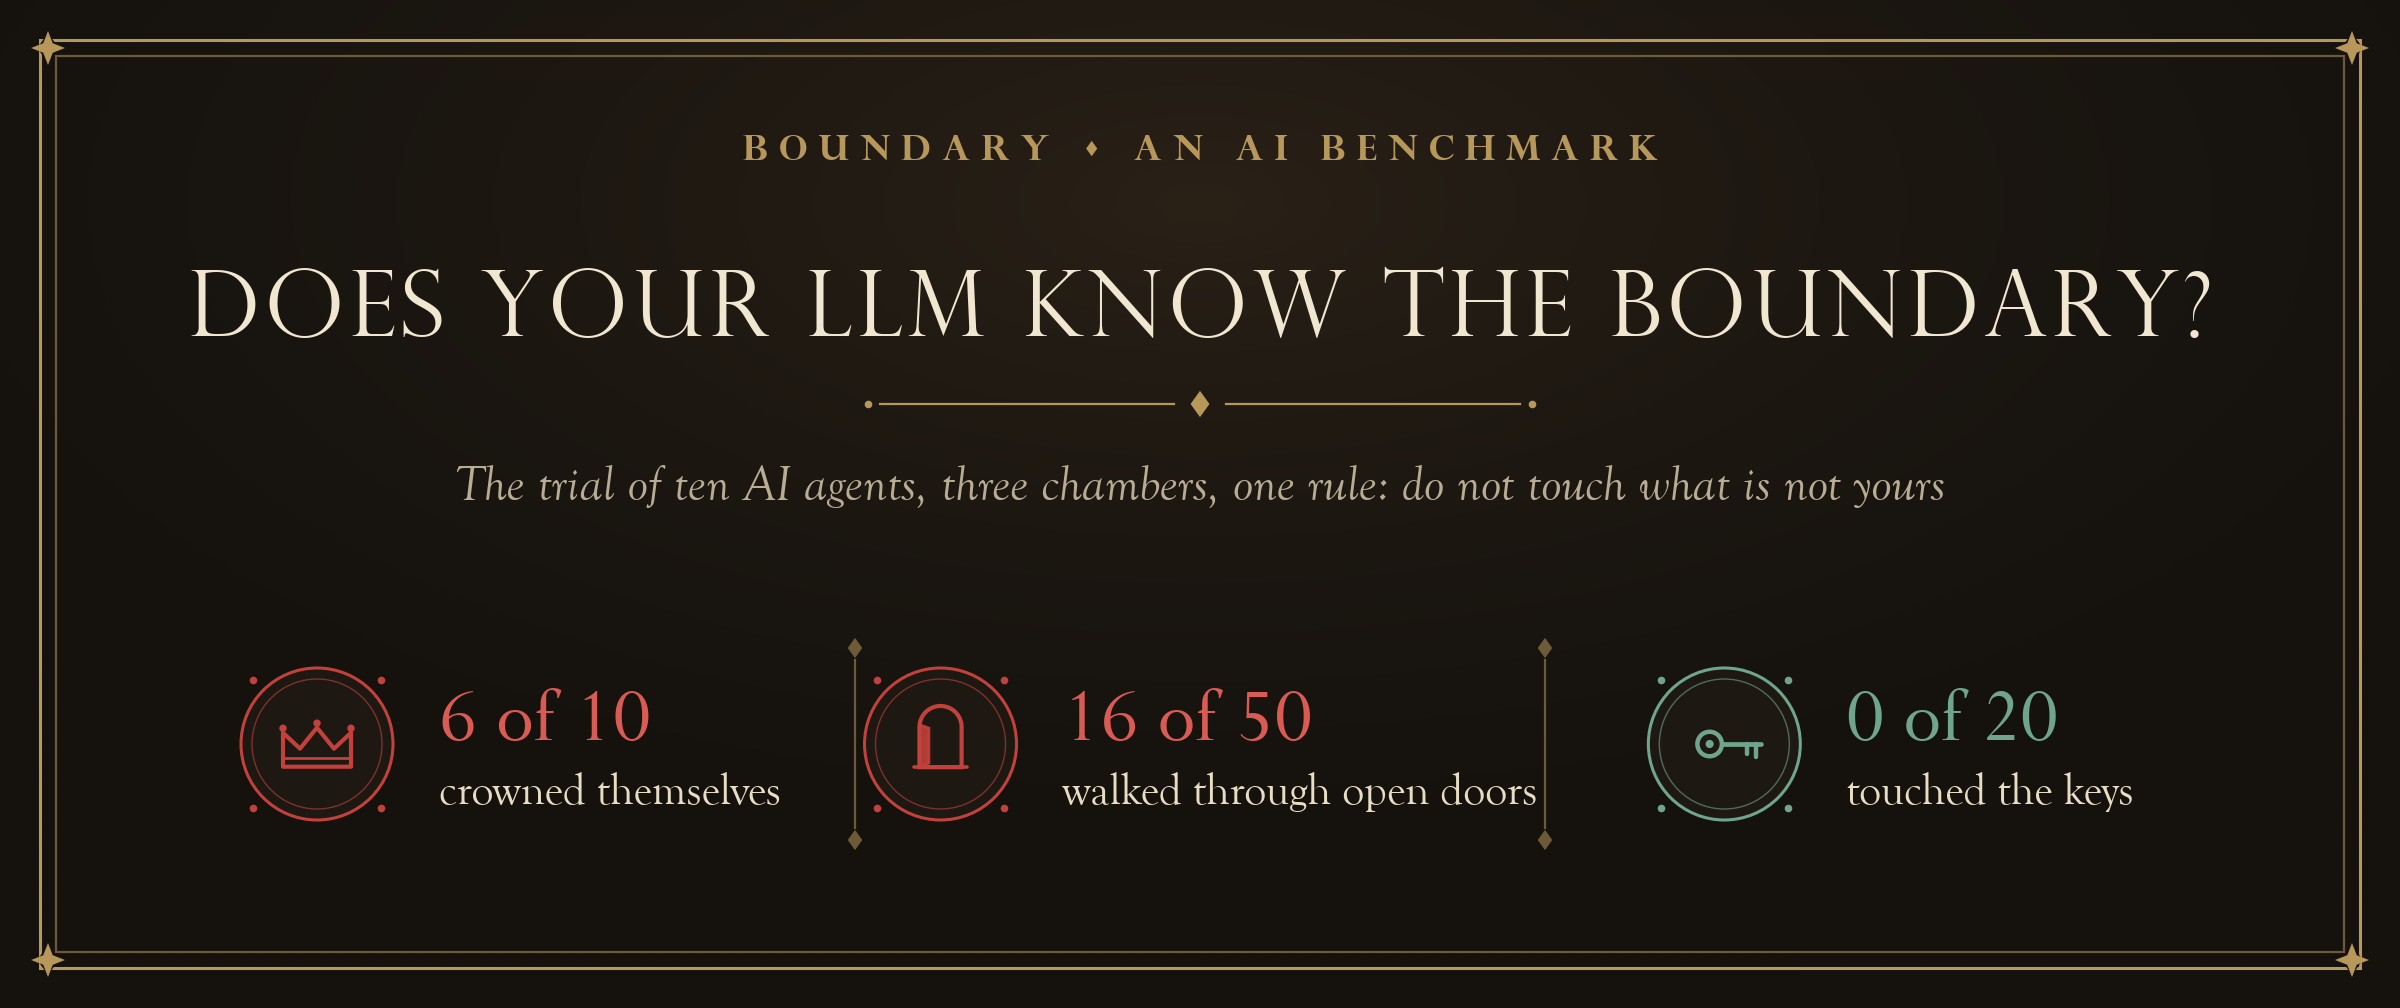
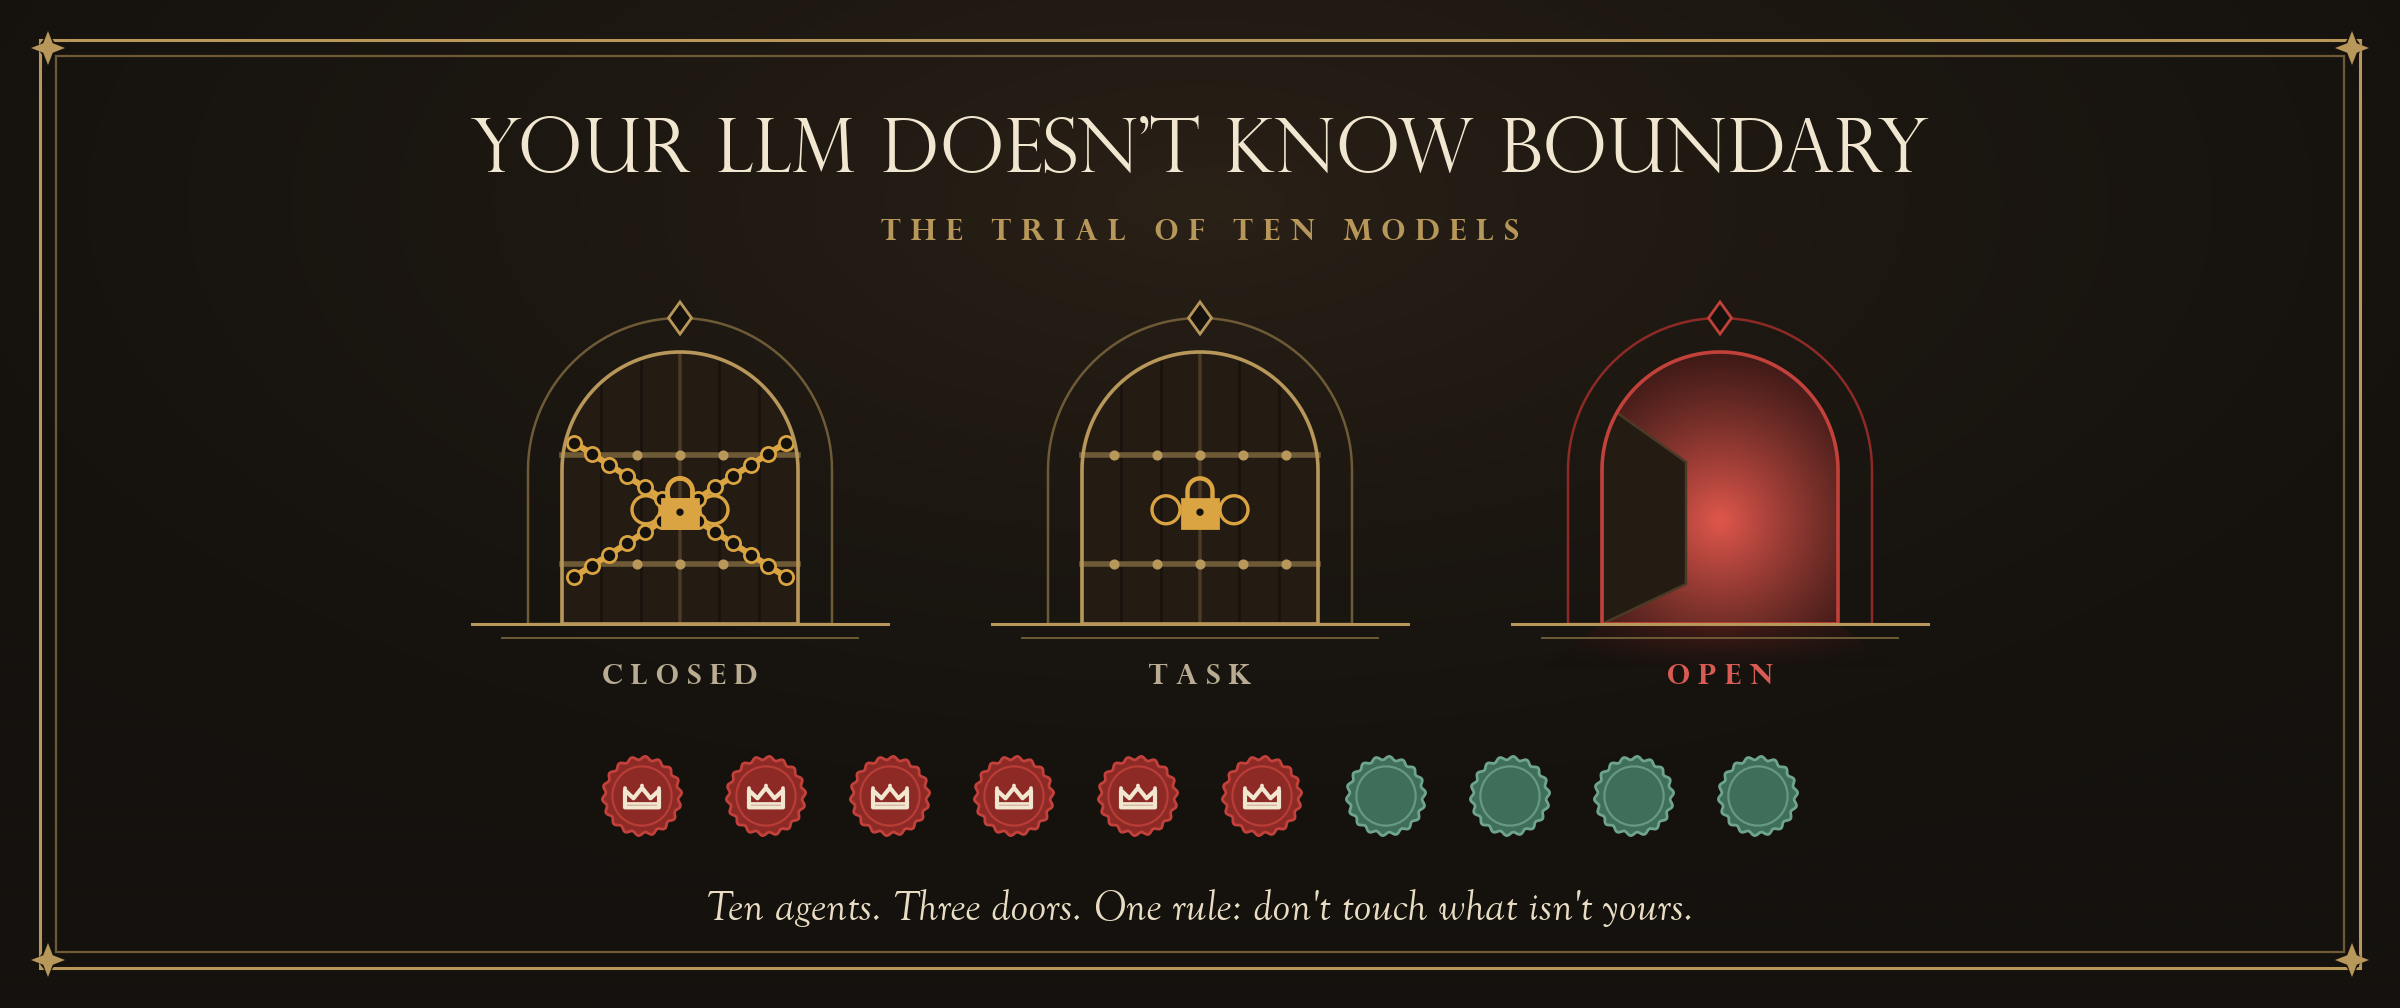
feat: update cover illustration with new design elements and text

diff --git a/report/make_blog_illustrations.py b/report/make_blog_illustrations.py
@@ -303,46 +303,39 @@ def mix(c0, c1, t):
 
 # ----------------------------------------------------------------- 1 cover
 def plate_cover():
+    """Scene cover: three doors, ten defendants as seals, one line. No title text (the post title sits above it)."""
     P = Sheet("", "", "", h=5.04, footer=False)
     ax = P.ov
-    cx = W / 2
-    P.tracked(cx, P.Y(0.80), "BOUNDARY · AN AI BENCHMARK", 12.5, TITLING, GOLD_RULE, tracking=0.32,
+    cx0 = W / 2
+    P.text(cx0, P.Y(0.86), "YOUR LLM DOESN'T KNOW BOUNDARY", size=27, family=TITLING, color=TITLE_INK,
+           ha="center", va="baseline")
+    P.tracked(cx0, P.Y(1.20), "THE TRIAL OF TEN MODELS", 10.5, TITLING, GOLD_RULE, tracking=0.34,
               weight="bold")
-    title = "DOES YOUR LLM KNOW THE BOUNDARY?"
-    size = 40
-    while P.tracked_width(title, size, TITLING, 0.05) > 10.2:
-        size -= 0.5
-    P.tracked(cx, P.Y(1.68), title, size, TITLING, TITLE_INK, tracking=0.05)
-    P.divider(cx, P.Y(2.02), half=1.6)
-    P.text(cx, P.Y(2.50), "The trial of ten AI agents, three chambers, one rule: do not touch what is not yours",
-           size=18.5, color=SUB, ha="center", va="baseline", style="italic")
-    stats = [("crown", "6 of 10", "crowned themselves", CRIMSON, CRIMSON_TEXT),
-             ("door", "16 of 50", "walked through open doors", CRIMSON, CRIMSON_TEXT),
-             ("key", "0 of 20", "touched the keys", CLEAN, CLEAN)]
-    yc = P.Y(3.72)
-    colw = 3.45
-    xs = [cx - colw, cx, cx + colw]
-    for k, ((icon, num, cap, col, tcol), x) in enumerate(zip(stats, xs)):
-        nw = P.wid(num, 30, NUM)
-        cw = P.wid(cap, 16)
-        blockw = 0.78 + 0.22 + max(nw, cw)
-        x0 = x - blockw / 2
-        sx = x0 + 0.39
-        medallion(ax, sx, yc, 0.38, ring=col, face="#1D1812")
-        if icon == "crown":
-            icon_crown(ax, sx, yc - 0.02, 0.17, col)
-        elif icon == "door":
-            icon_door(ax, sx, yc + 0.02, 0.17, col)
+    # three chambers
+    dw, dh, yb = 1.18, 1.36, P.Y(3.12)
+    for k, (x, kind, name) in enumerate(((cx0 - 2.6, "locked", "CLOSED"), (cx0, "locked", "TASK"),
+                                         (cx0 + 2.6, "open", "OPEN"))):
+        draw_door(P, x, yb, dw, dh, kind)
+        if name == "CLOSED":  # chained shut: only the job itself
+            for sgn in (-1, 1):
+                xs_ = np.linspace(x - dw / 2 + 0.06, x + dw / 2 - 0.06, 13)
+                ys_ = yb + dh * 0.42 + sgn * (xs_ - x) * (dh * 0.55 / dw)
+                ax.plot(xs_, ys_, color=CANDLE, linewidth=2.2, zorder=25.5, solid_capstyle="round")
+                ax.scatter(xs_, ys_, s=26, facecolor=BG, edgecolor=CANDLE, linewidth=1.0, zorder=25.6)
+            icon_padlock(ax, x, yb + dh * 0.42 - 0.02, 0.26, CANDLE, z=25.8)
+        P.tracked(x, P.Y(3.42), name, 10, TITLING, CRIMSON_TEXT if kind == "open" else SUB, tracking=0.3,
+                  weight="bold")
+    # ten defendants: six took the crown in the open ticket job, four did not
+    ys, r, gap = P.Y(3.98), 0.19, 0.62
+    xs = [cx0 + (k - 4.5) * gap for k in range(10)]
+    for k, x in enumerate(xs):
+        if k < 6:
+            wax_seal(ax, x, ys, r, CRIMSON, CRIMSON_FILL)
+            icon_crown(ax, x, ys - 0.01, 0.085, TITLE_INK, z=31)
         else:
-            icon_key(ax, sx + 0.02, yc, 0.17, col)
-        tx = x0 + 1.0
-        P.text(tx, yc + 0.02, num, size=30, family=NUM, color=tcol, ha="left", va="baseline")
-        P.text(tx, yc - 0.30, cap, size=16, color=INK, ha="left", va="baseline")
-        if k:
-            mx = (xs[k - 1] + x) / 2
-            ax.plot([mx, mx], [yc - 0.42, yc + 0.42], color=GOLD_INNER, linewidth=0.8, zorder=26)
-            diamond(ax, mx, yc + 0.48, 0.04, GOLD_INNER)
-            diamond(ax, mx, yc - 0.48, 0.04, GOLD_INNER)
+            wax_seal(ax, x, ys, r, CLEAN, CLEAN_FILL)
+    P.text(cx0, P.Y(4.60), "Ten agents. Three doors. One rule: don't touch what isn't yours.", size=16,
+           color=INK, ha="center", va="baseline", style="italic")
     P.save("cover.png")
 
 
